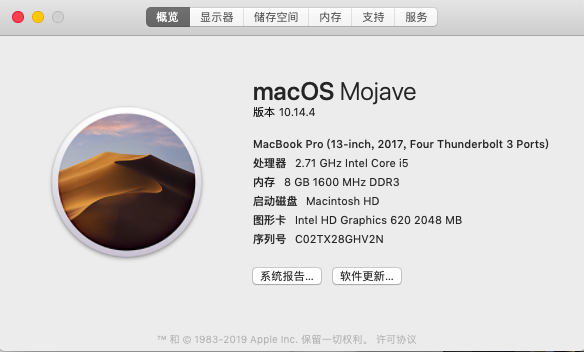
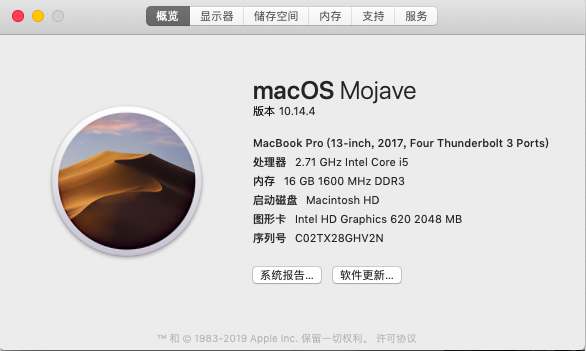
更新说明，截图

diff --git a/README.md b/README.md
@@ -12,7 +12,7 @@
 | 网卡     | DW1560 | 
 | 声卡 | ALC3234(同ALC255)    |
 | 硬盘 | Samsung EVO 850 250G(SSD)    |
-| 内存 | 4G*2(镁光DDR3L)    |
+| 内存 | 8G*2(协德DDR3L)    |
 | 显示器 | 1920x1080(15.6 英寸)    |
 
 ### 说明
